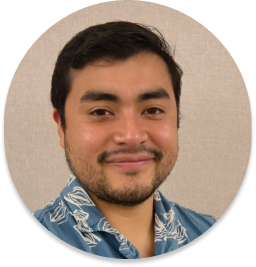
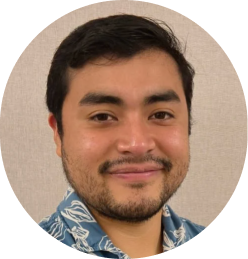
Functional roster card selection

diff --git a/src/pages/Roster/Roster.jsx b/src/pages/Roster/Roster.jsx
@@ -1,107 +1,98 @@
+import { useState } from "react";
 import styles from "./Roster.module.scss";
 import LiquidGlass from "../../components/LiquidGlass/LiquidGlass";
-import jeremy from "../../assets/roster/Jeremy.png";
 import PageWrapper from "../../components/PageWrapper/PageWrapper";
 import bg from "../../assets/bg.svg?url";
 import gradient from "../../assets/gradient.svg?url";
 
+import jeremy from "../../assets/roster/jeremy.png";
+import taiba from "../../assets/roster/taiba.png";
+import ammar from "../../assets/roster/ammar.png";
+import genesis from "../../assets/roster/genesis.png";
+import kexin from "../../assets/roster/kexin.png";
+import maria from "../../assets/roster/maria.png";
+import mariana from "../../assets/roster/mariana.png";
+import sriharsha from "../../assets/roster/sriharsha.png";
+import kevser from "../../assets/roster/kevser.png";
+import shahad from "../../assets/roster/shahad.png";
+import francesca from "../../assets/roster/francesca.png";
+import nauryzbay from "../../assets/roster/nauryzbay.png";
+import ansal from "../../assets/roster/ansal.png";
+import zeyad from "../../assets/roster/zeyad.png";
+import nadia from "../../assets/roster/nadia.png";
+import hanke from "../../assets/roster/hanke.png";
+import claudia from "../../assets/roster/claudia.png";
+import raheema from "../../assets/roster/raheema.png";
+
+const members = [
+  { name: "Jeremy Rodrigo Guerrero Alejos", role: "Dry Lab", bio: "Background in bioengineering with main focus on bioinformatics, analysis of transcriptomics and proteomics data. Some of my skills include: Python, Nextflow, and R. Participated and won previously the iGEM Design League.", photo: jeremy },
+  { name: "Taiba Zeya", role: "Dry Lab", bio: "Bio coming soon.", photo: taiba },
+  { name: "Ammar Almarzooq", role: "Wiki", bio: "Background in computer science with software engineering experience, specializing in fronted web development and user experience design.", photo: ammar },
+  { name: "Maria Camila Muñoz Vega", role: "Wet Lab", bio: "Bio coming soon.", photo: maria },
+  { name: "Mariana Villegas", role: "Wet Lab", bio: "Bio coming soon.", photo: mariana },
+  { name: "Kexin Niu", role: "Dry Lab", bio: "Bio coming soon.", photo: kexin },
+  { name: "Génesis Flores Arroyo", role: "Public Engagement", bio: "Bio coming soon.", photo: genesis },
+  { name: "Sriharsha Chowdarapu", role: "Wet Lab", bio: "Bio coming soon.", photo: sriharsha },
+  { name: "Kevser Ciek", role: "Dry Lab", bio: "Bio coming soon.", photo: kevser },
+  { name: "Shahad Hersi", role: "Public Engagement", bio: "Background in biology with clinical and infectious disease research experience as well as teaching and project coordination experience.", photo: shahad },
+  { name: "Francesca Rivas Cuestas", role: "Wet Lab", bio: "Background in bioengineering with experience in biochemistry (protein expression in bacteria, insect and mammalian cells, and purification), biophysical (MST), and bioimaging assays (fluorescence and confocal microscopy).", photo: francesca },
+  { name: "Zeyad Muazzen", role: "Wet Lab", bio: "Bio coming soon.", photo: zeyad },
+  { name: "Ansal' Diassova", role: "Wet Lab", bio: "Background in synthetic biology and materials science with experience in drug delivery, molecular biology techniques (flow cytometry, cytotoxicity assays, etc), protein expression in mammalian and bacterial cells, genetic engineering, and biochemistry. iGEM team lead in 2024.", photo: ansal },
+  { name: "Nauryzbay Menlen", role: "Dry Lab", bio: "Background in economics with experience in data science analytics and predictive modelling.", photo: nauryzbay },
+  { name: "Nadia Houti", role: "Hardware", bio: "Background in mechanical engineering with wet lab experience in cell culture and hydrogel synthesis, and experience in prototyping and design.", photo: nadia },
+  { name: "Hanke Li", role: "Hardware", bio: "Bio coming soon.", photo: hanke },
+  { name: "Claudia Vidales", role: "Public Engagement", bio: "Bio coming soon.", photo: claudia },
+  { name: "Raheema Javid", role: "Public Engagement", bio: "Bio coming soon.", photo: raheema },
+  { name: "Maria Fernanda Gutierrez", role: "Drylab", bio: "Bio coming soon.", photo: null },
+];
+
 export default function Roster() {
-    return (
+  const [selected, setSelected] = useState(members[0]);
+
+  return (
     <PageWrapper background={{ color: "#0A0A27", image: bg, size: "1280px 1080px", gradient }}>
-      <div className={styles.title}>
-        <LiquidGlass radius={40} color={[0, 0, 0]} opacity={0.07}>
+      <div className={styles.container}>
+        <div className={styles.title}>
+          <LiquidGlass radius={40} color={[0, 0, 0]} opacity={0.07}>
             <h1>TEAM</h1>
-        </LiquidGlass>
-      </div>
-      <div className={styles.card}>
-        <LiquidGlass radius={40} color={[0, 0, 0]} opacity={0.07} className={styles.glass}>
+          </LiquidGlass>
+        </div>
+
+        <div className={styles.card}>
+          <LiquidGlass radius={40} color={[0, 0, 0]} opacity={0.07}>
             <div className={styles.content}>
-                <img src={jeremy}/>
-                <div>
-                    <h2>Jeremy Rodrigo Guerrero</h2>
-                    <h3>Dry Lab</h3>
-                    <p>Jeremy is very serious about working with dry stuff in the dry lab. In his free time, Jeremy eats patacones. </p>
-                </div>
+              {selected.photo ? (
+                <img src={selected.photo} alt={selected.name} />
+              ) : (
+                <div className={styles.placeholder} />
+              )}
+              <div>
+                <h2>{selected.name}</h2>
+                <h3>{selected.role}</h3>
+                <p>{selected.bio}</p>
+              </div>
             </div>
-        </LiquidGlass>
-      </div>
-      <div className={styles.roster}>
-        <div className={styles.person}>
-            <LiquidGlass radius={300} color={[0, 0, 0]} opacity={0.07}>
-                <img src={jeremy} className={styles.icon}/>
-            </LiquidGlass>
+          </LiquidGlass>
         </div>
-        <div className={styles.person}>
-            <LiquidGlass radius={300} color={[0, 0, 0]} opacity={0.07}>
-                <img src={jeremy} className={styles.icon}/>
-            </LiquidGlass>
-        </div>
-        <div className={styles.person}>
-            <LiquidGlass radius={300} color={[0, 0, 0]} opacity={0.07}>
-                <img src={jeremy} className={styles.icon}/>
-            </LiquidGlass>
-        </div>
-        <div className={styles.person}>
-            <LiquidGlass radius={300} color={[0, 0, 0]} opacity={0.07}>
-                <img src={jeremy} className={styles.icon}/>
-            </LiquidGlass>
-        </div>
-        <div className={styles.person}>
-            <LiquidGlass radius={300} color={[0, 0, 0]} opacity={0.07}>
-                <img src={jeremy} className={styles.icon}/>
-            </LiquidGlass>
-        </div>
-        <div className={styles.person}>
-            <LiquidGlass radius={300} color={[0, 0, 0]} opacity={0.07}>
-                <img src={jeremy} className={styles.icon}/>
-            </LiquidGlass>
-        </div>
-        <div className={styles.person}>
-            <LiquidGlass radius={300} color={[0, 0, 0]} opacity={0.07}>
-                <img src={jeremy} className={styles.icon}/>
-            </LiquidGlass>
-        </div>
-        <div className={styles.person}>
-            <LiquidGlass radius={300} color={[0, 0, 0]} opacity={0.07}>
-                <img src={jeremy} className={styles.icon}/>
-            </LiquidGlass>
-        </div>
-        <div className={styles.person}>
-            <LiquidGlass radius={300} color={[0, 0, 0]} opacity={0.07}>
-                <img src={jeremy} className={styles.icon}/>
-            </LiquidGlass>
-        </div>
-        <div className={styles.person}>
-            <LiquidGlass radius={300} color={[0, 0, 0]} opacity={0.07}>
-                <img src={jeremy} className={styles.icon}/>
-            </LiquidGlass>
-        </div>
-        <div className={styles.person}>
-            <LiquidGlass radius={300} color={[0, 0, 0]} opacity={0.07}>
-                <img src={jeremy} className={styles.icon}/>
-            </LiquidGlass>
-        </div>
-        <div className={styles.person}>
-            <LiquidGlass radius={300} color={[0, 0, 0]} opacity={0.07}>
-                <img src={jeremy} className={styles.icon}/>
-            </LiquidGlass>
-        </div>
-        <div className={styles.person}>
-            <LiquidGlass radius={300} color={[0, 0, 0]} opacity={0.07}>
-                <img src={jeremy} className={styles.icon}/>
-            </LiquidGlass>
-        </div>
-        <div className={styles.person}>
-            <LiquidGlass radius={300} color={[0, 0, 0]} opacity={0.07}>
-                <img src={jeremy} className={styles.icon}/>
-            </LiquidGlass>
-        </div>
-        <div className={styles.person}>
-            <LiquidGlass radius={300} color={[0, 0, 0]} opacity={0.07}>
-                <img src={jeremy} className={styles.icon}/>
-            </LiquidGlass>
+
+        <div className={styles.roster}>
+          {members.map((member) => (
+            <div
+              key={member.name}
+              className={`${styles.person} ${member === selected ? styles.selected : ""}`}
+              onClick={() => setSelected(member)}
+            >
+              <LiquidGlass radius={300} color={[0, 0, 0]} opacity={0.07}>
+                {member.photo ? (
+                  <img src={member.photo} className={styles.icon} alt={member.name} />
+                ) : (
+                  <div className={styles.iconPlaceholder} />
+                )}
+              </LiquidGlass>
+            </div>
+          ))}
         </div>
       </div>
     </PageWrapper>
-    );
-  }
+  );
+}

diff --git a/src/pages/Roster/Roster.module.scss b/src/pages/Roster/Roster.module.scss
@@ -1,11 +1,16 @@
+.container {
+    height: 100vh;
+    overflow: hidden;
+}
+
 .title {
-    margin-top: 67px;
-    margin-inline-start: 102px;
+    margin-top: 24px;
+    margin-inline-start: 12px;
     display: inline-block;
 
     h1 {
         margin-block: 10px;
-        font-size: 96px;
+        font-size: 74px;
         color: white;
         font-weight: 700;
         padding-inline: 40px;
@@ -14,7 +19,7 @@
 }
 
 .card {
-    margin-block: 87px;
+    margin-block: 30px;
     display: flex;
     width: 100dvw;
     justify-content: center;
@@ -23,10 +28,32 @@
 .content {
     max-width: calc(min(100dvw - (2 * 180px), 920px));
     display: flex;
-    padding-block: 33px;
-    padding-inline: 40px;
+    padding-block: 20px;
+    padding-inline: 30px;
     gap: 26px;
+    color: white;
 
+    h2 {
+        margin: 0;
+    }
+
+    h3 {
+        margin-top: 4px;
+        font-weight: 400;
+        color: rgba(255, 255, 255, 0.6);
+    }
+
+    p {
+        margin-top: 12px;
+        line-height: 1.5;
+    }
+
+    img {
+        width: 150px;
+        height: 150px;
+        border-radius: 50%;
+        object-fit: cover;
+    }
 }
 
 .roster {
@@ -34,20 +61,51 @@
     gap: 12px;
     justify-content: center;
     flex-wrap: wrap;
-    padding-inline: 200px;
+    padding-inline: 140px;
 }
 
 .person {
-    width: 120px;
-    height: 120px;
+    width: 100px;
+    height: 100px;
     display: flex;
     justify-content: center;
     align-items: center;
+    cursor: pointer;
+    // opacity: 0.6;
+    transition: opacity 200ms ease, transform 200ms ease;
+
+    &:hover {
+        // opacity: 0.9;
+        transform: scale(1.05);
+    }
+}
+
+.selected {
+    opacity: 1;
+    transform: scale(1.2);
+    filter: drop-shadow(0 0 12px rgba(255, 255, 255, 0.6));
 }
 
 .icon {
-    width: 110px;
-    height: 110px;
+    width: 94px;
+    height: 94px;
     display: block;
-    margin: 5px;
+    margin: 3px;
+    border-radius: 100%;
+    object-fit: cover;
+}
+
+.placeholder {
+    width: 150px;
+    height: 150px;
+    background: rgba(255, 255, 255, 0.1);
+    border-radius: 50%;
+}
+
+.iconPlaceholder {
+    width: 94px;
+    height: 94px;
+    margin: 3px;
+    background: rgba(255, 255, 255, 0.1);
+    border-radius: 50%;
 }

diff --git a/src/components/PageWrapper/PageWrapper.module.scss b/src/components/PageWrapper/PageWrapper.module.scss
@@ -20,7 +20,6 @@
 
 .wrapper {
     min-height: 100dvh;
-    padding-top: 120px;
     position: relative;
 }
 
